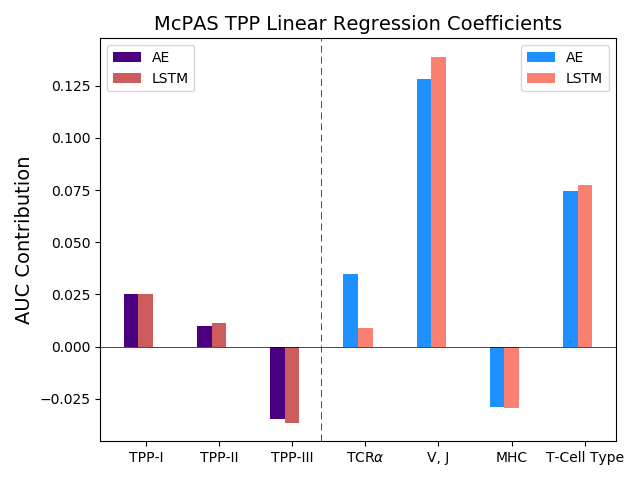
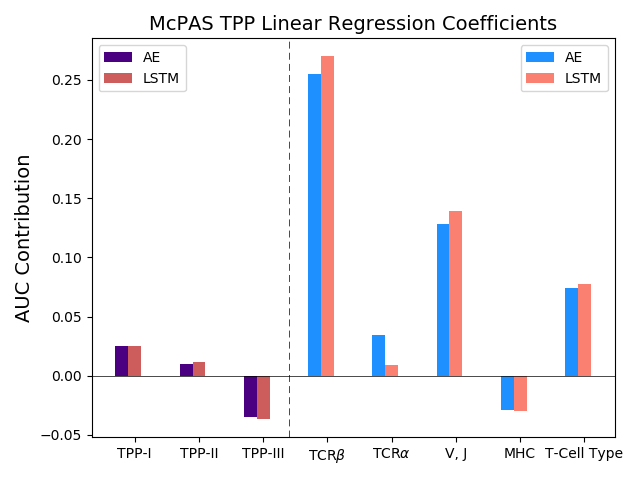
TPP plot update

diff --git a/plots/plots.py b/plots/plots.py
@@ -200,17 +200,21 @@ def tpp_linear_regression_coefficients(results_file):
     m_lstm_results = results['mcpas_lstm']
     reg_m_ae = LinearRegression().fit(X, m_ae_results)
     reg_m_lstm = LinearRegression().fit(X, m_lstm_results)
-    labels = ['TPP-I', 'TPP-II', 'TPP-III', 'TCR' + r'$\alpha$', 'V, J', 'MHC', 'T-Cell Type']
-    assert len(labels) == len(reg_m_ae.coef_.reshape(-1, 1))
-    bars1 = plt.bar(range(3), reg_m_ae.coef_[:3], width=0.2,
-            label='AE', color='indigo')
-    bars2 = plt.bar(range(3, 7), reg_m_ae.coef_[3:], width=0.2,
-                   label='AE', color='dodgerblue')
-    bars3 = plt.bar([x + 0.2 for x in range(3)], reg_m_lstm.coef_[:3],
-            width=0.2, label='LSTM', color='indianred')
-    bars4 = plt.bar([x + 0.2 for x in range(3,7)], reg_m_lstm.coef_[3:],
-                   width=0.2, label='LSTM', color='salmon')
 
+    ae_plot = np.concatenate([reg_m_ae.coef_[:3], np.array([reg_m_ae.intercept_ - 0.5]), reg_m_ae.coef_[3:]])
+    print(ae_plot)
+    lstm_plot = np.concatenate([reg_m_lstm.coef_[:3], np.array([reg_m_lstm.intercept_ - 0.5]), reg_m_lstm.coef_[3:]])
+    print(lstm_plot)
+    labels = ['TPP-I', 'TPP-II', 'TPP-III', 'TCR' + r'$\beta$', 'TCR' + r'$\alpha$', 'V, J', 'MHC', 'T-Cell Type']
+    assert len(labels) == len(ae_plot.reshape(-1, 1))
+    bars1 = plt.bar(range(3), ae_plot[:3], width=0.2,
+            label='AE', color='indigo')
+    bars2 = plt.bar(range(3, 8), ae_plot[3:], width=0.2,
+                   label='AE', color='dodgerblue')
+    bars3 = plt.bar([x + 0.2 for x in range(3)], lstm_plot[:3],
+            width=0.2, label='LSTM', color='indianred')
+    bars4 = plt.bar([x + 0.2 for x in range(3, 8)], lstm_plot[3:],
+                   width=0.2, label='LSTM', color='salmon')
     plt.legend()
     first_legend = plt.legend(handles=[bars1, bars3], loc='upper left')
     ax = plt.gca().add_artist(first_legend)
@@ -218,20 +222,14 @@ def tpp_linear_regression_coefficients(results_file):
     plt.xticks([x+0.2 for x in range(len(labels))], labels)
     plt.axhline(0, color='black', lw=0.5)
     plt.axvline(2.6, color='black', lw=0.5, dashes=(10, 6))
-
-
-
     plt.title('McPAS TPP Linear Regression Coefficients', fontdict={'fontsize': 14})
     plt.ylabel('AUC Contribution', fontdict={'fontsize': 14})
     colors = ['lightblue'] * 3 + ['lightgreen'] * 4
-    # print(bplot)
-    # for patch, color in zip(bplot[0]['boxes'], colors):
-    #     patch.set_facecolor(color)
     plt.tight_layout()
     print(reg_m_ae.coef_)
     print(reg_m_lstm.coef_)
     print('The standart error between the models is bounded by %.3f' %
-          max(np.std([reg_m_ae.coef_, reg_m_lstm.coef_], axis=0)))
+          max(np.std([ae_plot, lstm_plot], axis=0)))
     plt.show()
 
 
